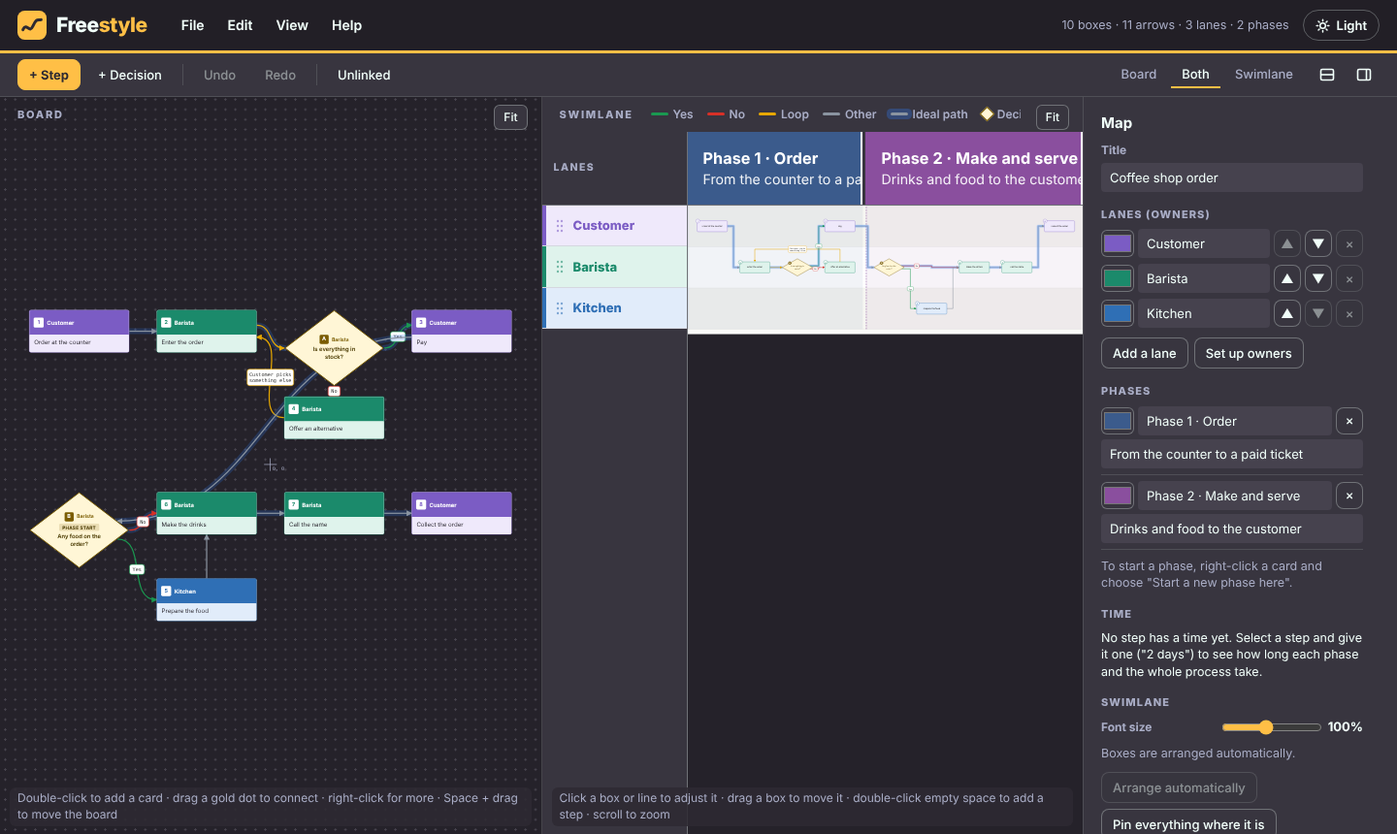
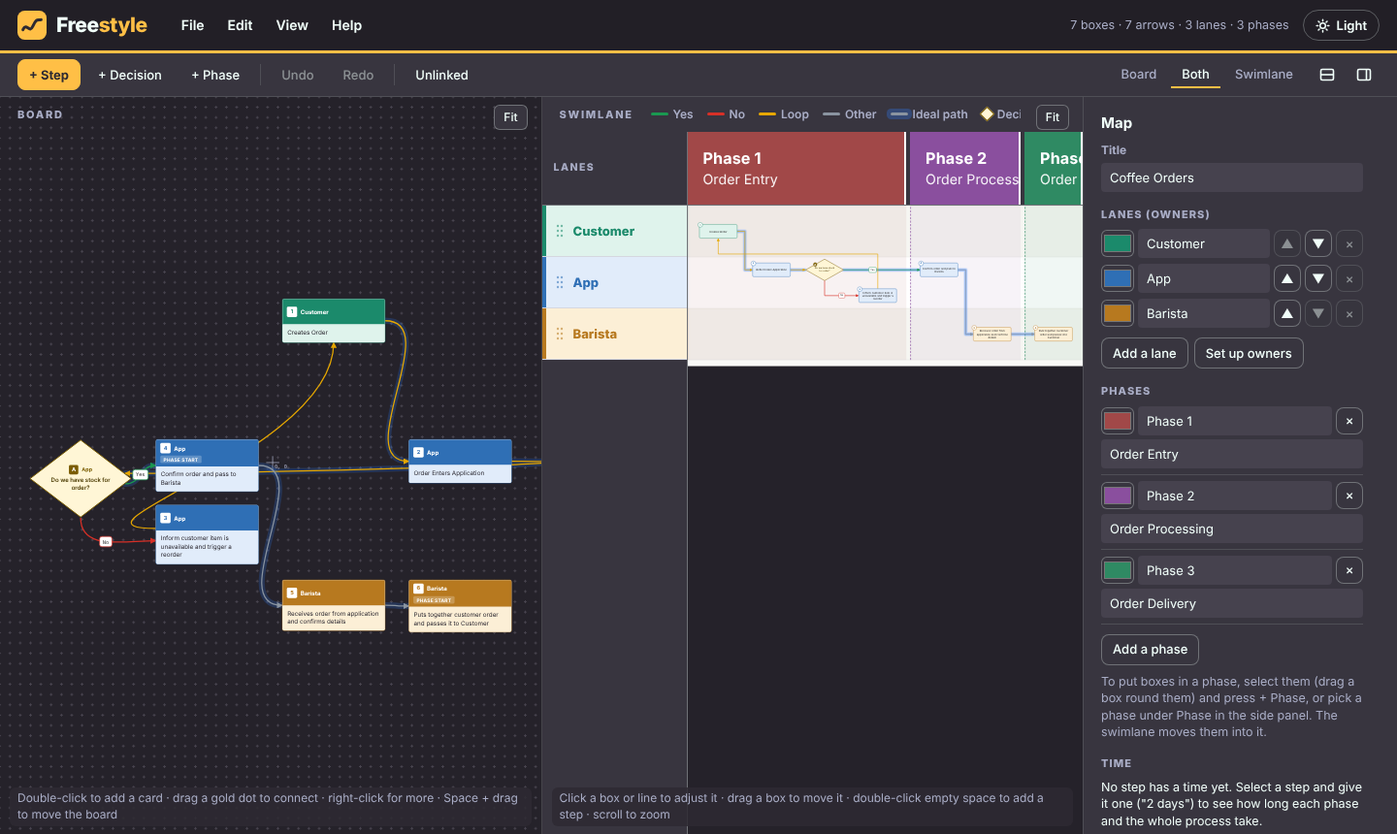
Phases follow the boxes, + Phase, and Coffee Orders as the default board (#2)
* Bring the Swimlane Creator settings to Freestyle

Ports the newer Swimlane Creator app into Freestyle's modules, in Freestyle's colours:
header menus, a quieter toolbar with + Step / + Decision inserting after the selection,
an Unlinked switch, a side panel toggle, step keys (time, cutoff, something broken,
note, link) with phase and process times, a swimlane frame whose phase and lane names
stay put (lanes drag to reorder, boxes drag to move, double-click adds a step),
diamond decisions on the board, and viewer and embed modes.

Quickbase saving, loading and sharing and the Excel branding are left out.
The Fit buttons are wired up again (they were commented out in the source).

Claude-Session: https://claude.ai/code/session_01W3E832h77VsSTg7yPeoUvD

* Phases follow the boxes, + Phase, and Coffee Orders as the default board

- A box set to a phase is moved into that phase in the swimlane, even when the columns
  around it were already in another phase. Boxes without a phase of their own follow the
  boxes leading into them. Maps whose phases were already in order lay out as before.
- + Phase on the toolbar, Add a phase under Edit and in the Map panel: with boxes
  selected they become the new phase, otherwise an empty phase is added.
- The box Phase list reads as the phase the box is in.
- The built-in example is now the Coffee Orders map.

Claude-Session: https://claude.ai/code/session_01W3E832h77VsSTg7yPeoUvD

---------

diff --git a/index.html b/index.html
@@ -329,7 +329,7 @@
     .view-chip{padding:3px 10px;border-radius:99px;background:var(--sunflower-gold);color:var(--shadow-grey);font-size:12px;font-weight:800;letter-spacing:.04em}
     /* View only: everything that changes the map is hidden */
     .view-chip{padding:3px 10px;border-radius:99px;background:#f2b84b;color:#3b2a00;font-size:12px;font-weight:800;letter-spacing:.04em}
-    body[data-mode="view"] #bStep,body[data-mode="view"] #bDecision,body[data-mode="view"] #bUndo,body[data-mode="view"] #bRedo,body[data-mode="view"] #bar .sep,
+    body[data-mode="view"] #bStep,body[data-mode="view"] #bDecision,body[data-mode="view"] #bPhase,body[data-mode="view"] #bUndo,body[data-mode="view"] #bRedo,body[data-mode="view"] #bar .sep,
     body[data-mode="view"] #bNew,body[data-mode="view"] #bQbSave,body[data-mode="view"] #bOpen,body[data-mode="view"] #bJson,body[data-mode="view"] #bExample,body[data-mode="view"] #bOwners,
     body[data-mode="view"] #menubar .menu:nth-child(2),body[data-mode="view"] .handle,body[data-mode="view"] #wireCtl{display:none!important}
     body[data-mode="view"] .card{cursor:pointer}
@@ -370,6 +370,7 @@
             <hr>
             <button type="button" data-proxy="#bStep">Add a step</button>
             <button type="button" data-proxy="#bDecision">Add a decision</button>
+            <button type="button" data-proxy="#bPhase">Add a phase</button>
             <hr>
             <button type="button" id="bOwners" title="List everyone who owns a step, before or while you draw">Owners&hellip;</button>
           </div></div>
@@ -394,6 +395,7 @@
   <div id="bar">
     <button type="button" id="bStep" class="primary" title="Add a step. With a step or arrow selected, it goes straight after it, joined in">+ Step</button>
     <button type="button" id="bDecision" title="Add a decision. With a step or arrow selected, it goes straight after it, joined in">+ Decision</button>
+    <button type="button" id="bPhase" title="Add a phase. With boxes selected, they become the new phase">+ Phase</button>
     <span class="sep"></span>
     <button type="button" id="bUndo" title="Undo (Ctrl+Z)" disabled>Undo</button>
     <button type="button" id="bRedo" title="Redo (Ctrl+Y)" disabled>Redo</button>
@@ -455,7 +457,7 @@
         <li><b>A question is a decision.</b> End the text with "?" or choose Decision; it becomes a diamond.</li>
         <li><b>Start labels with Yes or No.</b> Yes arrows are green and No arrows red. An arrow that goes back to an earlier step is a loop, in yellow.</li>
         <li><b>The ideal path</b> is the shortest way through over plain and Yes arrows. It gets the blue glow. You can force it on or off per arrow.</li>
-        <li><b>Phases:</b> select the cards of a phase (drag a box round them), then choose "Phase for all" in the panel or right-click one of them. Or right-click the first card of a phase and choose "Start a new phase here". Name phases in the Map panel (click empty space to see it).</li>
+        <li><b>Phases:</b> select the cards of a phase (drag a box round them), then choose "Phase for all" in the panel or right-click one of them. Or select them and press <b>+ Phase</b> to make a new phase of them. Change a box's phase under Phase in the side panel and the swimlane moves it into that phase. Name phases in the Map panel (click empty space to see it).</li>
         <li><b>Order in time</b> follows the arrows. Where two cards could go either way, the one further left on the board comes first.</li>
       </ul>
       <h3>From Arcweave</h3>
@@ -528,7 +530,7 @@
     })();
   </script>
   <script>
-const SAMPLE_MAP = {"version":1,"app":"freestyle","title":"Coffee shop order","lanes":[{"id":"Customer","name":"Customer"},{"id":"Barista","name":"Barista"},{"id":"Kitchen","name":"Kitchen"}],"phases":[{"id":"p1","title":"Phase 1 \u00b7 Order","subtitle":"From the counter to a paid ticket"},{"id":"p2","title":"Phase 2 \u00b7 Make and serve","subtitle":"Drinks and food to the customer"}],"nodes":[{"id":"n1","lane":"Customer","type":"step","text":"Order at the counter","phase":"p1","sketch":{"x":0,"y":0}},{"id":"n2","lane":"Barista","type":"step","text":"Enter the order","phase":"p1","sketch":{"x":280,"y":0}},{"id":"n3","lane":"Barista","type":"decision","text":"Is everything in stock?","phase":"p1","sketch":{"x":560,"y":0}},{"id":"n4","lane":"Barista","type":"step","text":"Offer an alternative","phase":"p1","sketch":{"x":560,"y":190}},{"id":"n6","lane":"Customer","type":"step","text":"Pay","phase":"p1","sketch":{"x":840,"y":0}},{"id":"n7","lane":"Barista","type":"decision","text":"Any food on the order?","phase":"p2","sketch":{"x":0,"y":400}},{"id":"n8","lane":"Kitchen","type":"step","text":"Prepare the food","phase":"p2","sketch":{"x":280,"y":590}},{"id":"n9","lane":"Barista","type":"step","text":"Make the drinks","phase":"p2","sketch":{"x":280,"y":400}},{"id":"n10","lane":"Barista","type":"step","text":"Call the name","phase":"p2","sketch":{"x":560,"y":400}},{"id":"n11","lane":"Customer","type":"step","text":"Collect the order","phase":"p2","sketch":{"x":840,"y":400}}],"edges":[{"from":"n1","to":"n2"},{"from":"n2","to":"n3"},{"from":"n3","to":"n6","label":"Yes"},{"from":"n3","to":"n4","label":"No"},{"from":"n4","to":"n2","label":"Customer picks something else"},{"from":"n6","to":"n7"},{"from":"n7","to":"n8","label":"Yes"},{"from":"n7","to":"n9","label":"No"},{"from":"n8","to":"n9"},{"from":"n9","to":"n10"},{"from":"n10","to":"n11"}]};
+const SAMPLE_MAP = {"version":1,"app":"freestyle","title":"Coffee Orders","lanes":[{"id":"Customer","name":"Customer","color":"#1b8a6b","fill":"#dff3ec"},{"id":"App","name":"App","color":"#2f6fb5","fill":"#e1ecfa"},{"id":"Barista","name":"Barista","color":"#b7791f","fill":"#fcefd6"}],"phases":[{"id":"p4","title":"Phase 1","subtitle":"Order Entry","color":"#a14848"},{"id":"p2","title":"Phase 2","subtitle":"Order Processing","color":"#8a4f9e"},{"id":"p3","title":"Phase 3","subtitle":"Order Delivery","color":"#2f8a63"}],"nodes":[{"id":"n518vq","lane":"Customer","type":"step","text":"Creates Order","sketch":{"x":20,"y":-350}},{"id":"nhmdaa","lane":"App","type":"step","text":"Order Enters Application","sketch":{"x":290,"y":-50},"phase":"p4"},{"id":"n5erwa","lane":"App","type":"decision","text":"Do we have stock for order?","sketch":{"x":-520,"y":-50},"phase":"p4"},{"id":"ngq9jh","lane":"App","type":"step","text":"Confirm order and pass to Barista","sketch":{"x":-250,"y":-50},"phase":"p2"},{"id":"n607ws","lane":"App","type":"step","text":"Inform customer item is unavailable and trigger a reorder","sketch":{"x":-250,"y":90},"phase":"p4"},{"id":"n0b1ek","lane":"Barista","type":"step","text":"Receives order from application and confirms details","sketch":{"x":20,"y":250},"phase":"p2"},{"id":"nmx51s","lane":"Barista","type":"step","text":"Puts together customer order and passes it to Customer","sketch":{"x":290,"y":250},"phase":"p3"}],"edges":[{"id":"eazcn4","from":"n518vq","to":"nhmdaa","sketch":{"a":"R"}},{"id":"ensdgs","from":"nhmdaa","to":"n5erwa","sketch":{"a":"R"}},{"id":"ecnuwe","from":"n5erwa","to":"ngq9jh","label":"Yes","sketch":{"a":"R"}},{"id":"e3pcea","from":"n5erwa","to":"n607ws","label":"No","sketch":{"a":"B"}},{"id":"ezbpzr","from":"n607ws","to":"n518vq","sketch":{"a":"L","b":"B"}},{"id":"eqjhkz","from":"ngq9jh","to":"n0b1ek","sketch":{"a":"R"}},{"id":"ek20fa","from":"n0b1ek","to":"nmx51s","sketch":{"a":"R"}}],"board":{"origin":"center","units":"px","xAxis":"right","yAxis":"down","boxAnchor":"top-left"}};
 
 /*
  * Freestyle: layout engine.
@@ -819,11 +821,30 @@ const Engine = (() => {
     let maxCol = 0; nodes.forEach(n => { maxCol = Math.max(maxCol, col[n.id]); });
     const phaseDefs = map.phases.map(p => Object.assign({}, p)), phaseIndex = {};
     phaseDefs.forEach((p, i) => { phaseIndex[p.id] = i; });
-    const colPhase = []; let carry = 0;
+    let colPhase = []; let carry = 0;
     for (let c = 0; c <= maxCol; c++) {
       let best = carry;
       nodes.forEach(n => { if (col[n.id] === c && n.phase && phaseIndex[n.phase] > best) best = phaseIndex[n.phase]; });
       colPhase[c] = best; carry = best;
+    }
+    // A box set to a phase belongs in it, even where the columns around it are already in a later phase. A box with
+    // no phase of its own takes the latest phase of the boxes leading into it (or of its column, if that is later).
+    // When a box ends up in a column of a different phase, the columns are put back in phase order: each phase's
+    // boxes keep their order among themselves, and the phases follow one another.
+    const eff = {};
+    nodes.slice().sort((a, b) => col[a.id] - col[b.id]).forEach(n => {
+      if (n.phase && phaseIndex[n.phase] !== undefined) { eff[n.id] = phaseIndex[n.phase]; return; }
+      eff[n.id] = inc[n.id].reduce((m, e) => e.back || eff[e.from] === undefined ? m : Math.max(m, eff[e.from]), colPhase[col[n.id]]);
+    });
+    const span = {}; nodes.forEach(n => { const s = span[eff[n.id]] = span[eff[n.id]] || [Infinity, -Infinity]; s[0] = Math.min(s[0], col[n.id]); s[1] = Math.max(s[1], col[n.id]); });
+    const order = Object.keys(span).map(Number).sort((a, b) => a - b);
+    if (order.some((p, i) => i && span[order[i - 1]][1] >= span[p][0])) {
+      const seats = [...new Set(nodes.map(n => eff[n.id] + '|' + col[n.id]))].sort((a, b) => { const [pa, ca] = a.split('|').map(Number), [pb, cb] = b.split('|').map(Number); return pa - pb || ca - cb; });
+      const to = {}; seats.forEach((k, i) => { to[k] = i; });
+      const next = {}; nodes.forEach(n => { next[n.id] = to[eff[n.id] + '|' + col[n.id]]; });
+      col = next; maxCol = seats.length - 1;
+      edges.forEach(e => { if (!e.selfLoop && !e.back && col[e.to] <= col[e.from]) e.back = true; });   // now runs back in time
+      colPhase = []; nodes.forEach(n => { colPhase[col[n.id]] = eff[n.id]; });
     }
     phaseDefs.forEach((p, i) => {
       const cs = []; colPhase.forEach((pi, c) => { if (pi === i) cs.push(c); });
@@ -2440,7 +2461,7 @@ const App = (() => {
         ${field('Type', `<select id="i_type">${options([['step', 'Step'], ['decision', 'Decision (diamond)']], n.type)}</select>`)}
         ${field('Owner (lane)', `<select id="i_lane">${options(doc.lanes.map(l => [l.id, l.name]).concat([['+', 'New owner…']]), n.lane)}</select>`)}
         <label class="f col"><span>Text</span><textarea id="i_text" rows="4">${esc(n.text)}</textarea></label>
-        ${field('Phase', `<select id="i_phase">${options([['', 'Continues the phase before it']].concat(doc.phases.map(p => [p.id, 'Starts: ' + p.title])).concat([['+', 'Starts a new phase…']]), n.phase || '')}</select>`)}
+        ${field('Phase', `<select id="i_phase">${options([['', 'Same as the box before it']].concat(doc.phases.map(p => [p.id, p.title])).concat([['+', 'A new phase…']]), n.phase || '')}</select>`)}
         <h4>Keys</h4>
         ${field('Time it takes', `<input type="text" id="i_time" value="${esc(n.time || '')}" placeholder="e.g. 2 days">`)}
         ${field('Cutoff time', `<span class="cutoff-row"><input type="text" id="i_cutoff" value="${esc(n.cutoff || '')}" placeholder="none"><button type="button" id="i_cutoffStd" title="The standard cutoff">3pm</button></span>`)}
@@ -2518,7 +2539,8 @@ const App = (() => {
       <div class="row"><button type="button" id="m_addlane">Add a lane</button><button type="button" id="m_owners">Set up owners</button></div>
       <h4>Phases</h4>
       <div class="list">${doc.phases.map((p, i) => `<div class="pi" data-i="${i}"><div class="li"><input type="color" class="p_color" value="${esc(p.color)}"><input type="text" class="p_title" value="${esc(p.title)}" placeholder="Title"><button type="button" class="p_del" title="Remove this phase"${doc.phases.length > 1 ? '' : ' disabled'}>×</button></div><input type="text" class="p_sub" value="${esc(p.subtitle)}" placeholder="Subtitle"></div>`).join('')}</div>
-      <p class="muted">To start a phase, right-click a card and choose "Start a new phase here".</p>
+      <div class="row"><button type="button" id="m_addphase">Add a phase</button></div>
+      <p class="muted">To put boxes in a phase, select them (drag a box round them) and press + Phase, or pick a phase under Phase in the side panel. The swimlane moves them into it.</p>
       ${timingPanel()}
       <h4>Swimlane</h4>
       ${field('Font size', `<span><input type="range" id="m_fs" min="70" max="140" step="5" value="${Math.round(ui.fs * 100)}"> <b id="m_fsv">${Math.round(ui.fs * 100)}%</b></span>`)}
@@ -2576,6 +2598,7 @@ const App = (() => {
     on('i_phases', 'change', ev => assignPhase(ev.target.value));
     // Map panel
     on('m_title', 'change', ev => change(() => { doc.title = ev.target.value.trim() || 'Untitled process'; }));
+    on('m_addphase', 'click', addPhase);
     on('m_addlane', 'click', () => { const id = addLanePrompt(); if (id) refresh(); });
     on('m_owners', 'click', openOwners);
     el.querySelectorAll('.li[data-i]').forEach(row => {
@@ -2636,6 +2659,14 @@ const App = (() => {
     }
     change(() => { sel.nodes.forEach(nid => { node(nid).phase = value === '-' ? null : id; }); });
     status(value === '-' ? 'Those cards now follow the phase before them.' : `${sel.nodes.size} card${sel.nodes.size === 1 ? '' : 's'} put in "${doc.phases.find(p => p.id === id).title}".`);
+  }
+  // + Phase: with boxes selected they become a new phase; with none, an empty phase is added for boxes to be put in.
+  function addPhase() {
+    if (sel.nodes.size) { assignPhase('+'); return; }
+    const title = (prompt('Name of the new phase:', 'Phase ' + (doc.phases.length + 1)) || '').trim(); if (!title) return;
+    let k = doc.phases.length + 1; while (doc.phases.some(p => p.id === 'p' + k)) k++;
+    change(() => { doc.phases.push({ id: 'p' + k, title, subtitle: '', color: Engine.PHASE_COLORS[doc.phases.length % Engine.PHASE_COLORS.length] }); });
+    status(`Added "${title}". Select the boxes that belong in it and pick it under Phase in the side panel.`);
   }
   function phaseSummary() {
     const names = {}; L.allPhases.forEach(p => { names[p.id] = p.title; });
@@ -2778,12 +2809,12 @@ const App = (() => {
       if (insertAfterSelection(type)) return;                 // a step or an arrow is selected: the new box goes in the line there
       const r = boardEl().getBoundingClientRect(), p = toWorld(r.left + r.width / 2, r.top + r.height / 2); addNode(type, p.x - CARD_W / 2 + (Math.random() * 60 - 30), p.y - 40 + (Math.random() * 60 - 30));
     };
-    on('#bStep', () => addFromButton('step')); on('#bDecision', () => addFromButton('decision'));
+    on('#bStep', () => addFromButton('step')); on('#bDecision', () => addFromButton('decision')); on('#bPhase', addPhase);
     on('#bUndo', undo); on('#bRedo', redo); on('#bFlags', () => { ui.flags = !ui.flags; drawBoard(); drawSwimlane(); drawInspector(); flagButton(); });
     $('#inspector').addEventListener('click', ev => { const b = ev.target.closest('[data-flag]'); if (b) select('nodes', b.dataset.flag); });   // a box in the "missing an arrow" list
     on('#bFitBoard', fitBoard); on('#bFitSwim', fitSwim);
     on('#bNew', () => { if (confirm('Start an empty map? The current one stays in Undo, and you can export it first.')) setDoc({ title: 'New process', lanes: [], phases: [], nodes: [], edges: [] }, 'Empty map. Double-click the board to add your first step.'); });
-    on('#bExample', () => { if (confirm('Load the coffee shop example? The current map stays in Undo.')) setDoc(SAMPLE_MAP, 'Loaded the example.'); });
+    on('#bExample', () => { if (confirm('Load the Coffee Orders example? The current map stays in Undo.')) setDoc(SAMPLE_MAP, 'Loaded the example.'); });
     on('#bSave', saveFile); on('#bOpen', () => $('#file').click()); on('#bJson', openJsonBox); on('#bOwners', openOwners);
     $('#file').addEventListener('change', ev => { if (ev.target.files[0]) openFile(ev.target.files[0]); ev.target.value = ''; });
     on('#bStack', () => { ui.stack = !ui.stack; setView(ui.view); });

diff --git a/app/app.js b/app/app.js
@@ -775,7 +775,7 @@ const App = (() => {
         ${field('Type', `<select id="i_type">${options([['step', 'Step'], ['decision', 'Decision (diamond)']], n.type)}</select>`)}
         ${field('Owner (lane)', `<select id="i_lane">${options(doc.lanes.map(l => [l.id, l.name]).concat([['+', 'New owner…']]), n.lane)}</select>`)}
         <label class="f col"><span>Text</span><textarea id="i_text" rows="4">${esc(n.text)}</textarea></label>
-        ${field('Phase', `<select id="i_phase">${options([['', 'Continues the phase before it']].concat(doc.phases.map(p => [p.id, 'Starts: ' + p.title])).concat([['+', 'Starts a new phase…']]), n.phase || '')}</select>`)}
+        ${field('Phase', `<select id="i_phase">${options([['', 'Same as the box before it']].concat(doc.phases.map(p => [p.id, p.title])).concat([['+', 'A new phase…']]), n.phase || '')}</select>`)}
         <h4>Keys</h4>
         ${field('Time it takes', `<input type="text" id="i_time" value="${esc(n.time || '')}" placeholder="e.g. 2 days">`)}
         ${field('Cutoff time', `<span class="cutoff-row"><input type="text" id="i_cutoff" value="${esc(n.cutoff || '')}" placeholder="none"><button type="button" id="i_cutoffStd" title="The standard cutoff">3pm</button></span>`)}
@@ -853,7 +853,8 @@ const App = (() => {
       <div class="row"><button type="button" id="m_addlane">Add a lane</button><button type="button" id="m_owners">Set up owners</button></div>
       <h4>Phases</h4>
       <div class="list">${doc.phases.map((p, i) => `<div class="pi" data-i="${i}"><div class="li"><input type="color" class="p_color" value="${esc(p.color)}"><input type="text" class="p_title" value="${esc(p.title)}" placeholder="Title"><button type="button" class="p_del" title="Remove this phase"${doc.phases.length > 1 ? '' : ' disabled'}>×</button></div><input type="text" class="p_sub" value="${esc(p.subtitle)}" placeholder="Subtitle"></div>`).join('')}</div>
-      <p class="muted">To start a phase, right-click a card and choose "Start a new phase here".</p>
+      <div class="row"><button type="button" id="m_addphase">Add a phase</button></div>
+      <p class="muted">To put boxes in a phase, select them (drag a box round them) and press + Phase, or pick a phase under Phase in the side panel. The swimlane moves them into it.</p>
       ${timingPanel()}
       <h4>Swimlane</h4>
       ${field('Font size', `<span><input type="range" id="m_fs" min="70" max="140" step="5" value="${Math.round(ui.fs * 100)}"> <b id="m_fsv">${Math.round(ui.fs * 100)}%</b></span>`)}
@@ -911,6 +912,7 @@ const App = (() => {
     on('i_phases', 'change', ev => assignPhase(ev.target.value));
     // Map panel
     on('m_title', 'change', ev => change(() => { doc.title = ev.target.value.trim() || 'Untitled process'; }));
+    on('m_addphase', 'click', addPhase);
     on('m_addlane', 'click', () => { const id = addLanePrompt(); if (id) refresh(); });
     on('m_owners', 'click', openOwners);
     el.querySelectorAll('.li[data-i]').forEach(row => {
@@ -971,6 +973,14 @@ const App = (() => {
     }
     change(() => { sel.nodes.forEach(nid => { node(nid).phase = value === '-' ? null : id; }); });
     status(value === '-' ? 'Those cards now follow the phase before them.' : `${sel.nodes.size} card${sel.nodes.size === 1 ? '' : 's'} put in "${doc.phases.find(p => p.id === id).title}".`);
+  }
+  // + Phase: with boxes selected they become a new phase; with none, an empty phase is added for boxes to be put in.
+  function addPhase() {
+    if (sel.nodes.size) { assignPhase('+'); return; }
+    const title = (prompt('Name of the new phase:', 'Phase ' + (doc.phases.length + 1)) || '').trim(); if (!title) return;
+    let k = doc.phases.length + 1; while (doc.phases.some(p => p.id === 'p' + k)) k++;
+    change(() => { doc.phases.push({ id: 'p' + k, title, subtitle: '', color: Engine.PHASE_COLORS[doc.phases.length % Engine.PHASE_COLORS.length] }); });
+    status(`Added "${title}". Select the boxes that belong in it and pick it under Phase in the side panel.`);
   }
   function phaseSummary() {
     const names = {}; L.allPhases.forEach(p => { names[p.id] = p.title; });
@@ -1113,12 +1123,12 @@ const App = (() => {
       if (insertAfterSelection(type)) return;                 // a step or an arrow is selected: the new box goes in the line there
       const r = boardEl().getBoundingClientRect(), p = toWorld(r.left + r.width / 2, r.top + r.height / 2); addNode(type, p.x - CARD_W / 2 + (Math.random() * 60 - 30), p.y - 40 + (Math.random() * 60 - 30));
     };
-    on('#bStep', () => addFromButton('step')); on('#bDecision', () => addFromButton('decision'));
+    on('#bStep', () => addFromButton('step')); on('#bDecision', () => addFromButton('decision')); on('#bPhase', addPhase);
     on('#bUndo', undo); on('#bRedo', redo); on('#bFlags', () => { ui.flags = !ui.flags; drawBoard(); drawSwimlane(); drawInspector(); flagButton(); });
     $('#inspector').addEventListener('click', ev => { const b = ev.target.closest('[data-flag]'); if (b) select('nodes', b.dataset.flag); });   // a box in the "missing an arrow" list
     on('#bFitBoard', fitBoard); on('#bFitSwim', fitSwim);
     on('#bNew', () => { if (confirm('Start an empty map? The current one stays in Undo, and you can export it first.')) setDoc({ title: 'New process', lanes: [], phases: [], nodes: [], edges: [] }, 'Empty map. Double-click the board to add your first step.'); });
-    on('#bExample', () => { if (confirm('Load the coffee shop example? The current map stays in Undo.')) setDoc(SAMPLE_MAP, 'Loaded the example.'); });
+    on('#bExample', () => { if (confirm('Load the Coffee Orders example? The current map stays in Undo.')) setDoc(SAMPLE_MAP, 'Loaded the example.'); });
     on('#bSave', saveFile); on('#bOpen', () => $('#file').click()); on('#bJson', openJsonBox); on('#bOwners', openOwners);
     $('#file').addEventListener('change', ev => { if (ev.target.files[0]) openFile(ev.target.files[0]); ev.target.value = ''; });
     on('#bStack', () => { ui.stack = !ui.stack; setView(ui.view); });

diff --git a/app/shell.html b/app/shell.html
@@ -329,7 +329,7 @@
     .view-chip{padding:3px 10px;border-radius:99px;background:var(--sunflower-gold);color:var(--shadow-grey);font-size:12px;font-weight:800;letter-spacing:.04em}
     /* View only: everything that changes the map is hidden */
     .view-chip{padding:3px 10px;border-radius:99px;background:#f2b84b;color:#3b2a00;font-size:12px;font-weight:800;letter-spacing:.04em}
-    body[data-mode="view"] #bStep,body[data-mode="view"] #bDecision,body[data-mode="view"] #bUndo,body[data-mode="view"] #bRedo,body[data-mode="view"] #bar .sep,
+    body[data-mode="view"] #bStep,body[data-mode="view"] #bDecision,body[data-mode="view"] #bPhase,body[data-mode="view"] #bUndo,body[data-mode="view"] #bRedo,body[data-mode="view"] #bar .sep,
     body[data-mode="view"] #bNew,body[data-mode="view"] #bQbSave,body[data-mode="view"] #bOpen,body[data-mode="view"] #bJson,body[data-mode="view"] #bExample,body[data-mode="view"] #bOwners,
     body[data-mode="view"] #menubar .menu:nth-child(2),body[data-mode="view"] .handle,body[data-mode="view"] #wireCtl{display:none!important}
     body[data-mode="view"] .card{cursor:pointer}
@@ -370,6 +370,7 @@
             <hr>
             <button type="button" data-proxy="#bStep">Add a step</button>
             <button type="button" data-proxy="#bDecision">Add a decision</button>
+            <button type="button" data-proxy="#bPhase">Add a phase</button>
             <hr>
             <button type="button" id="bOwners" title="List everyone who owns a step, before or while you draw">Owners&hellip;</button>
           </div></div>
@@ -394,6 +395,7 @@
   <div id="bar">
     <button type="button" id="bStep" class="primary" title="Add a step. With a step or arrow selected, it goes straight after it, joined in">+ Step</button>
     <button type="button" id="bDecision" title="Add a decision. With a step or arrow selected, it goes straight after it, joined in">+ Decision</button>
+    <button type="button" id="bPhase" title="Add a phase. With boxes selected, they become the new phase">+ Phase</button>
     <span class="sep"></span>
     <button type="button" id="bUndo" title="Undo (Ctrl+Z)" disabled>Undo</button>
     <button type="button" id="bRedo" title="Redo (Ctrl+Y)" disabled>Redo</button>
@@ -455,7 +457,7 @@
         <li><b>A question is a decision.</b> End the text with "?" or choose Decision; it becomes a diamond.</li>
         <li><b>Start labels with Yes or No.</b> Yes arrows are green and No arrows red. An arrow that goes back to an earlier step is a loop, in yellow.</li>
         <li><b>The ideal path</b> is the shortest way through over plain and Yes arrows. It gets the blue glow. You can force it on or off per arrow.</li>
-        <li><b>Phases:</b> select the cards of a phase (drag a box round them), then choose "Phase for all" in the panel or right-click one of them. Or right-click the first card of a phase and choose "Start a new phase here". Name phases in the Map panel (click empty space to see it).</li>
+        <li><b>Phases:</b> select the cards of a phase (drag a box round them), then choose "Phase for all" in the panel or right-click one of them. Or select them and press <b>+ Phase</b> to make a new phase of them. Change a box's phase under Phase in the side panel and the swimlane moves it into that phase. Name phases in the Map panel (click empty space to see it).</li>
         <li><b>Order in time</b> follows the arrows. Where two cards could go either way, the one further left on the board comes first.</li>
       </ul>
       <h3>From Arcweave</h3>

diff --git a/app/engine.js b/app/engine.js
@@ -287,11 +287,30 @@ const Engine = (() => {
     let maxCol = 0; nodes.forEach(n => { maxCol = Math.max(maxCol, col[n.id]); });
     const phaseDefs = map.phases.map(p => Object.assign({}, p)), phaseIndex = {};
     phaseDefs.forEach((p, i) => { phaseIndex[p.id] = i; });
-    const colPhase = []; let carry = 0;
+    let colPhase = []; let carry = 0;
     for (let c = 0; c <= maxCol; c++) {
       let best = carry;
       nodes.forEach(n => { if (col[n.id] === c && n.phase && phaseIndex[n.phase] > best) best = phaseIndex[n.phase]; });
       colPhase[c] = best; carry = best;
+    }
+    // A box set to a phase belongs in it, even where the columns around it are already in a later phase. A box with
+    // no phase of its own takes the latest phase of the boxes leading into it (or of its column, if that is later).
+    // When a box ends up in a column of a different phase, the columns are put back in phase order: each phase's
+    // boxes keep their order among themselves, and the phases follow one another.
+    const eff = {};
+    nodes.slice().sort((a, b) => col[a.id] - col[b.id]).forEach(n => {
+      if (n.phase && phaseIndex[n.phase] !== undefined) { eff[n.id] = phaseIndex[n.phase]; return; }
+      eff[n.id] = inc[n.id].reduce((m, e) => e.back || eff[e.from] === undefined ? m : Math.max(m, eff[e.from]), colPhase[col[n.id]]);
+    });
+    const span = {}; nodes.forEach(n => { const s = span[eff[n.id]] = span[eff[n.id]] || [Infinity, -Infinity]; s[0] = Math.min(s[0], col[n.id]); s[1] = Math.max(s[1], col[n.id]); });
+    const order = Object.keys(span).map(Number).sort((a, b) => a - b);
+    if (order.some((p, i) => i && span[order[i - 1]][1] >= span[p][0])) {
+      const seats = [...new Set(nodes.map(n => eff[n.id] + '|' + col[n.id]))].sort((a, b) => { const [pa, ca] = a.split('|').map(Number), [pb, cb] = b.split('|').map(Number); return pa - pb || ca - cb; });
+      const to = {}; seats.forEach((k, i) => { to[k] = i; });
+      const next = {}; nodes.forEach(n => { next[n.id] = to[eff[n.id] + '|' + col[n.id]]; });
+      col = next; maxCol = seats.length - 1;
+      edges.forEach(e => { if (!e.selfLoop && !e.back && col[e.to] <= col[e.from]) e.back = true; });   // now runs back in time
+      colPhase = []; nodes.forEach(n => { colPhase[col[n.id]] = eff[n.id]; });
     }
     phaseDefs.forEach((p, i) => {
       const cs = []; colPhase.forEach((pi, c) => { if (pi === i) cs.push(c); });

diff --git a/build.py b/build.py
@@ -13,7 +13,7 @@ MODULES = ["engine.js", "render.js", "export.js", "pdf.js", "app.js"]
 
 
 def main():
-    sample = json.loads((HERE / "examples" / "coffee-shop.map.json").read_text(encoding="utf-8"))
+    sample = json.loads((HERE / "examples" / "coffee-orders.map.json").read_text(encoding="utf-8"))
     script = "const SAMPLE_MAP = " + json.dumps(sample, ensure_ascii=True, separators=(",", ":")) + ";\n\n"
     script += "\n\n".join((HERE / "app" / name).read_text(encoding="utf-8").rstrip() for name in MODULES) + "\n"
     assert "</script" not in script.lower(), "a module contains a closing script tag"

diff --git a/README.md b/README.md
@@ -47,7 +47,7 @@ Requirements: Python 3 to build. No other tooling.
    - `export.js`: print pages and images
    - `pdf.js`: the PDF download
    - `app.js`: the board, the panel, files and keys
-2. Run `python build.py`. It joins them, with the example in `examples/coffee-shop.map.json`, into `index.html`.
+2. Run `python build.py`. It joins them, with the example in `examples/coffee-orders.map.json`, into `index.html`.
 
 To host it, put `index.html` on any static host (GitHub Pages works).
 
